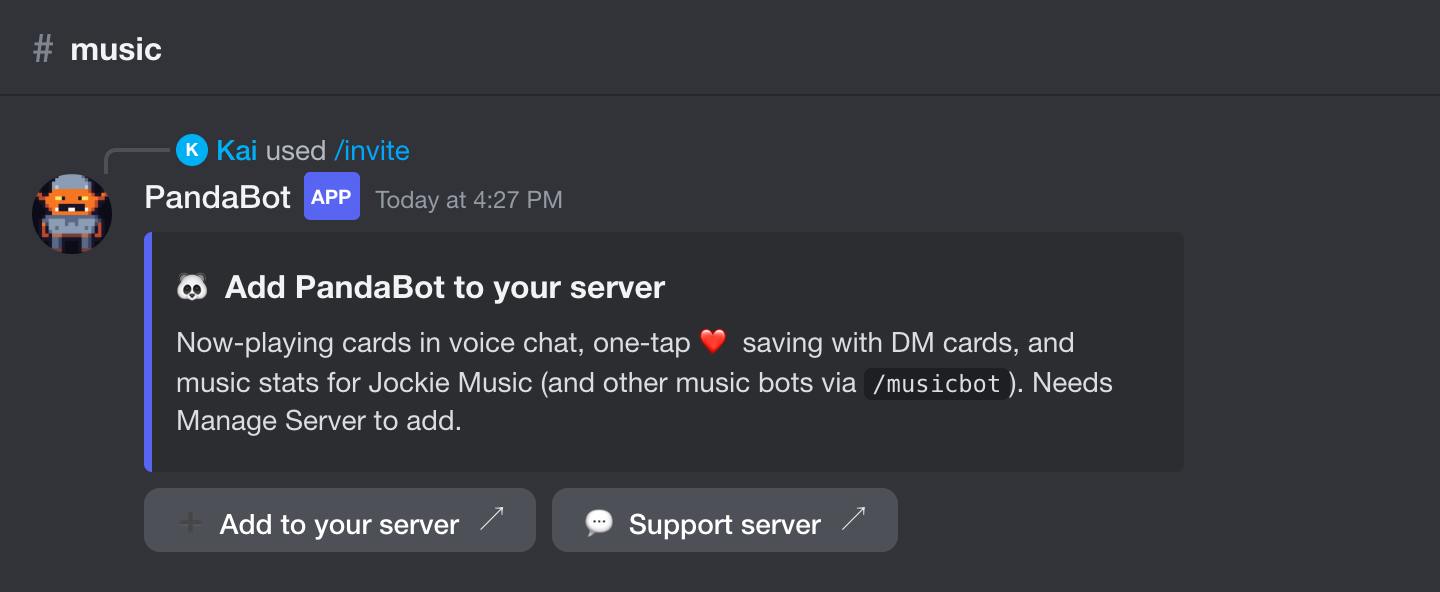
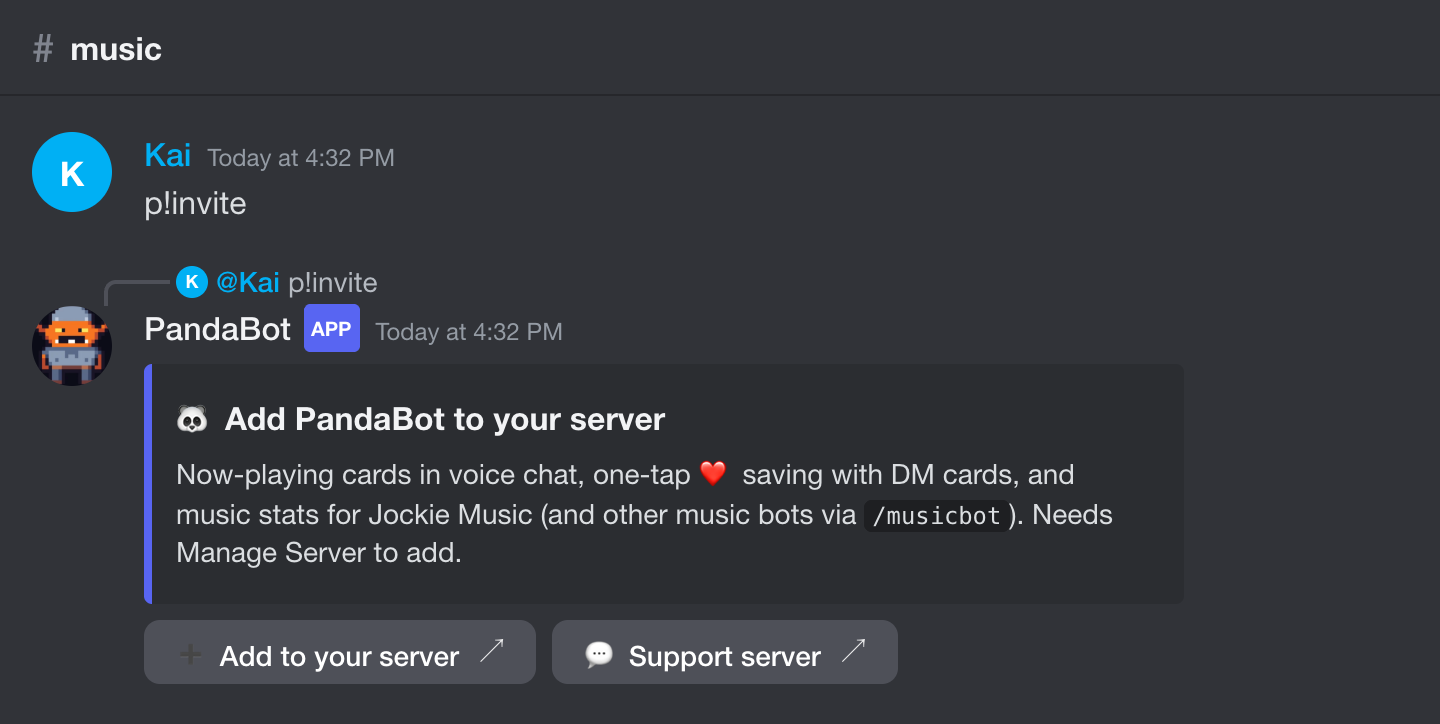
Lead with the p! text commands in screenshots and docs
Most people use p! and !like, so the screenshots now show the typed commands
where one exists, and the gallery, README and captions name the p! form first.

diff --git a/site/commands.html b/site/commands.html
@@ -11,8 +11,9 @@
 <main class="wide">
   <p><a href="index.html">← PandaBot</a></p>
   <h1>Commands</h1>
-  <p class="lede">What every PandaBot command looks like in Discord. Text commands start with <code>p!</code>, and
-  every one of them is also a slash command. <code>p!help</code> lists them all in Discord.</p>
+  <p class="lede">What every PandaBot command looks like in Discord. Most people type the <code>p!</code> commands
+  (and <code>!like</code> to save); each one also works as a slash command, and a few settings are slash-only.
+  <code>p!help</code> lists them all in Discord.</p>
   <!-- Generated by tools/screenshots.py. Edit the descriptions there, then re-run it. -->
   <h2>Saving songs</h2>
   <div class="shots">
@@ -37,7 +38,7 @@
            alt="PandaBot in Discord: Your saved songs, in your DMs">
     </figure>
     <figure id="save">
-      <figcaption><h3>/save</h3><p>Save the song that's playing without leaving the chat.</p></figcaption>
+      <figcaption><h3>/save</h3><p>The slash-command version of <code>!like</code>: saves the song that's playing.</p></figcaption>
       <img src="img/commands/save.png" width="720" height="182" loading="lazy"
            alt="PandaBot in Discord: /save">
     </figure>
@@ -47,12 +48,12 @@
            alt="PandaBot in Discord: Apps → Save song">
     </figure>
     <figure id="likes">
-      <figcaption><h3>/likes</h3><p>Page through your saved songs (or someone else's), and save from their list straight into yours.</p></figcaption>
-      <img src="img/commands/likes.png" width="720" height="531" loading="lazy"
-           alt="PandaBot in Discord: /likes">
+      <figcaption><h3>p!saved  ·  /likes</h3><p>Page through your saved songs (or someone else's: <code>p!saved @name</code>), and save from their list straight into yours.</p></figcaption>
+      <img src="img/commands/likes.png" width="720" height="569" loading="lazy"
+           alt="PandaBot in Discord: p!saved  ·  /likes">
     </figure>
     <figure id="unlike">
-      <figcaption><h3>/unlike</h3><p>Remove a song by its number in <code>/likes</code>. Its DM card disappears too.</p></figcaption>
+      <figcaption><h3>/unlike</h3><p>Remove a song by its number in <code>p!saved</code>. Its DM card disappears too.</p></figcaption>
       <img src="img/commands/unlike.png" width="720" height="182" loading="lazy"
            alt="PandaBot in Discord: /unlike">
     </figure>
@@ -70,14 +71,14 @@
   <h2>Stats</h2>
   <div class="shots">
     <figure id="stats">
-      <figcaption><h3>/stats  ·  p!stats</h3><p>Someone's music profile: requests, top artists, how many saves, and how often other people save the songs they pick.</p></figcaption>
-      <img src="img/commands/stats.png" width="720" height="376" loading="lazy"
-           alt="PandaBot in Discord: /stats  ·  p!stats">
+      <figcaption><h3>p!stats  ·  /stats</h3><p>Someone's music profile: requests, top artists, how many saves, and how often other people save the songs they pick. Add <code>@name</code> or a period like <code>7d</code>.</p></figcaption>
+      <img src="img/commands/stats.png" width="720" height="442" loading="lazy"
+           alt="PandaBot in Discord: p!stats  ·  /stats">
     </figure>
     <figure id="played">
-      <figcaption><h3>/played  ·  p!played</h3><p>Everything someone requested in a time period, with paging and a menu to save any of it.</p></figcaption>
-      <img src="img/commands/played.png" width="720" height="503" loading="lazy"
-           alt="PandaBot in Discord: /played  ·  p!played">
+      <figcaption><h3>p!played  ·  /played</h3><p>Everything someone requested in a time period, with paging and a menu to save any of it.</p></figcaption>
+      <img src="img/commands/played.png" width="720" height="569" loading="lazy"
+           alt="PandaBot in Discord: p!played  ·  /played">
     </figure>
     <figure id="name-shortcut">
       <figcaption><h3>p!&lt;name&gt;</h3><p>Type someone's name as the command, like <code>p!juniper 30d</code>, to see what they played.</p></figcaption>
@@ -85,34 +86,34 @@
            alt="PandaBot in Discord: p!&lt;name&gt;">
     </figure>
     <figure id="heard">
-      <figcaption><h3>/heard</h3><p>"What was that song?" Everything that played while you were in voice.</p></figcaption>
-      <img src="img/commands/heard.png" width="720" height="580" loading="lazy"
-           alt="PandaBot in Discord: /heard">
+      <figcaption><h3>p!heard  ·  /heard</h3><p>"What was that song?" Everything that played while you were in voice.</p></figcaption>
+      <img src="img/commands/heard.png" width="720" height="618" loading="lazy"
+           alt="PandaBot in Discord: p!heard  ·  /heard">
     </figure>
     <figure id="history">
-      <figcaption><h3>/history</h3><p>Everything played in the server, newest first, with who asked for it.</p></figcaption>
-      <img src="img/commands/history.png" width="720" height="580" loading="lazy"
-           alt="PandaBot in Discord: /history">
+      <figcaption><h3>p!history  ·  /history</h3><p>Everything played in the server, newest first, with who asked for it.</p></figcaption>
+      <img src="img/commands/history.png" width="720" height="618" loading="lazy"
+           alt="PandaBot in Discord: p!history  ·  /history">
     </figure>
     <figure id="top">
-      <figcaption><h3>/top  ·  p!top</h3><p>Server charts: most played songs, top artists, top requesters and the most-saved songs.</p></figcaption>
-      <img src="img/commands/top.png" width="720" height="572" loading="lazy"
-           alt="PandaBot in Discord: /top  ·  p!top">
+      <figcaption><h3>p!top  ·  /top</h3><p>Server charts: most played songs, top artists, top requesters and the most-saved songs.</p></figcaption>
+      <img src="img/commands/top.png" width="720" height="638" loading="lazy"
+           alt="PandaBot in Discord: p!top  ·  /top">
     </figure>
     <figure id="dj">
-      <figcaption><h3>/dj  ·  p!dj</h3><p>Whose requests other people save the most.</p></figcaption>
-      <img src="img/commands/dj.png" width="720" height="324" loading="lazy"
-           alt="PandaBot in Discord: /dj  ·  p!dj">
+      <figcaption><h3>p!dj  ·  /dj</h3><p>Whose requests other people save the most.</p></figcaption>
+      <img src="img/commands/dj.png" width="720" height="390" loading="lazy"
+           alt="PandaBot in Discord: p!dj  ·  /dj">
     </figure>
     <figure id="match">
-      <figcaption><h3>/match  ·  p!match</h3><p>How well two people's taste lines up, and the artists and songs you share.</p></figcaption>
-      <img src="img/commands/match.png" width="720" height="378" loading="lazy"
-           alt="PandaBot in Discord: /match  ·  p!match">
+      <figcaption><h3>p!match  ·  /match</h3><p>How well two people's taste lines up, and the artists and songs you share. <code>p!match @a @b</code> compares two other people.</p></figcaption>
+      <img src="img/commands/match.png" width="720" height="444" loading="lazy"
+           alt="PandaBot in Discord: p!match  ·  /match">
     </figure>
     <figure id="throwback">
-      <figcaption><h3>/throwback</h3><p>A random song from the server's history, with a Save button.</p></figcaption>
-      <img src="img/commands/throwback.png" width="720" height="358" loading="lazy"
-           alt="PandaBot in Discord: /throwback">
+      <figcaption><h3>p!throwback  ·  /throwback</h3><p>A random song from the server's history, with a Save button.</p></figcaption>
+      <img src="img/commands/throwback.png" width="720" height="424" loading="lazy"
+           alt="PandaBot in Discord: p!throwback  ·  /throwback">
     </figure>
     <figure id="nowplaying">
       <figcaption><h3>/nowplaying</h3><p>Show the song that's playing in your voice channel, with a Save button.</p></figcaption>
@@ -148,9 +149,9 @@
            alt="PandaBot in Discord: /setupcheck">
     </figure>
     <figure id="backfill">
-      <figcaption><h3>/backfill  ·  p!backfill</h3><p>Reads back through old messages so the server's past songs show up in stats from day one.</p></figcaption>
-      <img src="img/commands/backfill.png" width="720" height="249" loading="lazy"
-           alt="PandaBot in Discord: /backfill  ·  p!backfill">
+      <figcaption><h3>p!backfill  ·  /backfill</h3><p>Reads back through old messages so the server's past songs show up in stats from day one.</p></figcaption>
+      <img src="img/commands/backfill.png" width="720" height="220" loading="lazy"
+           alt="PandaBot in Discord: p!backfill  ·  /backfill">
     </figure>
   </div>
   <h2>Everything else</h2>
@@ -161,14 +162,14 @@
            alt="PandaBot in Discord: p!help">
     </figure>
     <figure id="invite">
-      <figcaption><h3>/invite</h3><p>A link to add PandaBot to another server.</p></figcaption>
-      <img src="img/commands/invite.png" width="720" height="296" loading="lazy"
-           alt="PandaBot in Discord: /invite">
+      <figcaption><h3>p!invite  ·  /invite</h3><p>A link to add PandaBot to another server.</p></figcaption>
+      <img src="img/commands/invite.png" width="720" height="362" loading="lazy"
+           alt="PandaBot in Discord: p!invite  ·  /invite">
     </figure>
     <figure id="support">
-      <figcaption><h3>/support</h3><p>PandaBot is free. If you'd like to help with the hosting bill, there's a tip jar.</p></figcaption>
-      <img src="img/commands/support.png" width="720" height="315" loading="lazy"
-           alt="PandaBot in Discord: /support">
+      <figcaption><h3>p!support  ·  /support</h3><p>PandaBot is free. If you'd like to help with the hosting bill, there's a tip jar.</p></figcaption>
+      <img src="img/commands/support.png" width="720" height="381" loading="lazy"
+           alt="PandaBot in Discord: p!support  ·  /support">
     </figure>
     <figure id="forgetme">
       <figcaption><h3>/forgetme</h3><p>Deletes everything PandaBot stores about you, in every server, after you confirm.</p></figcaption>

diff --git a/tools/screenshots.py b/tools/screenshots.py
@@ -197,9 +197,13 @@ def interaction(user: Person, channel: Channel, sink: list, data: dict | None = 
 
 def message(author: Person, channel: Channel, content: str = "", embeds=(), sink: list | None = None, mentions=()):
     async def reply(content=None, **kw):
+        entry = {"content": content, **kw}
         if sink is not None:
-            sink.append({"content": content, **kw})
-        return SimpleNamespace(id=next(IDS), edit=AsyncMock())
+            sink.append(entry)
+
+        async def edit(**changes):
+            entry.update(changes, edited=True)
+        return SimpleNamespace(id=next(IDS), edit=edit)
 
     return SimpleNamespace(id=next(IDS), guild=GUILD, channel=channel, author=author, content=content,
                            embeds=list(embeds), components=[], interaction_metadata=None, reference=None,
@@ -307,7 +311,7 @@ async def build_scenes() -> list[Scene]:
         "<b>Remove from list</b> takes it back out.", "@ PandaBot", [from_reply(PANDA.dms[-1])])
 
     add("save", "Saving songs", "/save",
-        "Save the song that's playing without leaving the chat.", "# music",
+        "The slash-command version of <code>!like</code>: saves the song that's playing.", "# music",
         [await slash(ROSA, "save")])
 
     sink = []
@@ -321,12 +325,12 @@ async def build_scenes() -> list[Scene]:
         "Right-click any music-bot message, even an old one, and pick <b>Apps → Save song</b>.", "# music",
         [jockie, from_reply(sink[0], used="Save song", used_by=MOSS)], overlay=menu)
 
-    add("likes", "Saving songs", "/likes",
-        "Page through your saved songs (or someone else's), and save from their list straight into yours.",
-        "# music", [await slash(PANDA, "likes")])
+    add("likes", "Saving songs", "p!saved  ·  /likes",
+        "Page through your saved songs (or someone else's: <code>p!saved @name</code>), and save from their "
+        "list straight into yours.", "# music", await typed(PANDA, "p!saved"))
 
     add("unlike", "Saving songs", "/unlike",
-        "Remove a song by its number in <code>/likes</code>. Its DM card disappears too.", "# music",
+        "Remove a song by its number in <code>p!saved</code>. Its DM card disappears too.", "# music",
         [await slash(PANDA, "unlike", number=3)])
     add("export", "Saving songs", "/export",
         "Download your saved songs as a spreadsheet (CSV) with Spotify and YouTube links.", "# music",
@@ -335,31 +339,33 @@ async def build_scenes() -> list[Scene]:
         "Turn the DM cards on or off for yourself.", "# music", [await slash(PANDA, "dms", enabled=True)])
 
     # Stats
-    add("stats", "Stats", "/stats  ·  p!stats",
+    add("stats", "Stats", "p!stats  ·  /stats",
         "Someone's music profile: requests, top artists, how many saves, and how often other people "
-        "save the songs they pick.", "# music", [await slash(PANDA, "stats")])
-    add("played", "Stats", "/played  ·  p!played",
+        "save the songs they pick. Add <code>@name</code> or a period like <code>7d</code>.", "# music",
+        await typed(PANDA, "p!stats"))
+    add("played", "Stats", "p!played  ·  /played",
         "Everything someone requested in a time period, with paging and a menu to save any of it.",
-        "# music", [await slash(PANDA, "played", member=JUNI, period=choice("30d"))])
+        "# music", await typed(PANDA, f"p!played <@{JUNI.id}> 30d", mentions=[JUNI]))
     add("name-shortcut", "Stats", "p!<name>",
         "Type someone's name as the command, like <code>p!juniper 30d</code>, to see what they played.",
         "# music", await typed(KAI, "p!juniper 30d"))
-    add("heard", "Stats", "/heard",
+    add("heard", "Stats", "p!heard  ·  /heard",
         "\"What was that song?\" Everything that played while you were in voice.", "# music",
-        [await slash(PANDA, "heard")])
-    add("history", "Stats", "/history",
+        await typed(PANDA, "p!heard"))
+    add("history", "Stats", "p!history  ·  /history",
         "Everything played in the server, newest first, with who asked for it.", "# music",
-        [await slash(PANDA, "history")])
-    add("top", "Stats", "/top  ·  p!top",
+        await typed(PANDA, "p!history"))
+    add("top", "Stats", "p!top  ·  /top",
         "Server charts: most played songs, top artists, top requesters and the most-saved songs.", "# music",
-        [await slash(PANDA, "top", period=choice("30d"))])
-    add("dj", "Stats", "/dj  ·  p!dj",
-        "Whose requests other people save the most.", "# music", [await slash(PANDA, "dj")])
-    add("match", "Stats", "/match  ·  p!match",
-        "How well two people's taste lines up, and the artists and songs you share.", "# music",
-        [await slash(PANDA, "match", member=JUNI)])
-    add("throwback", "Stats", "/throwback",
-        "A random song from the server's history, with a Save button.", "# music", [await slash(KAI, "throwback")])
+        await typed(PANDA, "p!top 30d"))
+    add("dj", "Stats", "p!dj  ·  /dj",
+        "Whose requests other people save the most.", "# music", await typed(PANDA, "p!dj"))
+    add("match", "Stats", "p!match  ·  /match",
+        "How well two people's taste lines up, and the artists and songs you share. "
+        "<code>p!match @a @b</code> compares two other people.", "# music",
+        await typed(PANDA, f"p!match <@{JUNI.id}>", mentions=[JUNI]))
+    add("throwback", "Stats", "p!throwback  ·  /throwback",
+        "A random song from the server's history, with a Save button.", "# music", await typed(KAI, "p!throwback"))
     add("nowplaying", "Stats", "/nowplaying",
         "Show the song that's playing in your voice channel, with a Save button.", "🔊 Chill VC",
         [await slash(JUNI, "nowplaying", channel=CHILL)])
@@ -381,21 +387,19 @@ async def build_scenes() -> list[Scene]:
         "Finds channels PandaBot can't see or post in, since missing permissions otherwise fail silently.",
         "# music", [await slash(PANDA, "setupcheck")])
     bot.backfill = AsyncMock(return_value=(6, 412))
-    started = await slash(PANDA, "backfill", messages=10000)
-    await bot.wait_for_background()
-    add("backfill", "Server setup", "/backfill  ·  p!backfill",
+    add("backfill", "Server setup", "p!backfill  ·  /backfill",
         "Reads back through old messages so the server's past songs show up in stats from day one.",
-        "# music", [started, from_reply(MUSIC.sent[-1])])
+        "# music", await typed(PANDA, "p!backfill 10000"))
 
     # Everything else
     add("help", "Everything else", "p!help",
         "Every text command on one card. They all exist as slash commands too.", "# music",
         await typed(ROSA, "p!help"))
-    add("invite", "Everything else", "/invite",
-        "A link to add PandaBot to another server.", "# music", [await slash(KAI, "invite")])
-    add("support", "Everything else", "/support",
+    add("invite", "Everything else", "p!invite  ·  /invite",
+        "A link to add PandaBot to another server.", "# music", await typed(KAI, "p!invite"))
+    add("support", "Everything else", "p!support  ·  /support",
         "PandaBot is free. If you'd like to help with the hosting bill, there's a tip jar.", "# music",
-        [await slash(KAI, "support")])
+        await typed(KAI, "p!support"))
     add("forgetme", "Everything else", "/forgetme",
         "Deletes everything PandaBot stores about you, in every server, after you confirm.", "# music",
         [await slash(MOSS, "forgetme")])
@@ -545,7 +549,7 @@ def render_message(m: Msg) -> str:
         who_, text = m.reply_to
         ctx = (f'<div class="ctx"><span class="spine"></span>{avatar(who_, True)}'
                f'<span class="ctx-name" style="color:{who_.colour}">@{who_.display_name}</span>'
-               f' <span class="ctx-text">{html.escape(text)}</span></div>')
+               f' <span class="ctx-text">{md(text)}</span></div>')
     tag = '<span class="app">APP</span>' if m.author.bot else ""
     colour = "#f2f3f5" if m.author.bot else m.author.colour
     body = [f'<div class="head"><span class="name" style="color:{colour}">{m.author.display_name}</span>{tag}'
@@ -714,8 +718,9 @@ def write_gallery(scenes: list[Scene]) -> None:
 <main class="wide">
   <p><a href="index.html">← PandaBot</a></p>
   <h1>Commands</h1>
-  <p class="lede">What every PandaBot command looks like in Discord. Text commands start with <code>p!</code>, and
-  every one of them is also a slash command. <code>p!help</code> lists them all in Discord.</p>
+  <p class="lede">What every PandaBot command looks like in Discord. Most people type the <code>p!</code> commands
+  (and <code>!like</code> to save); each one also works as a slash command, and a few settings are slash-only.
+  <code>p!help</code> lists them all in Discord.</p>
   <!-- Generated by tools/screenshots.py. Edit the descriptions there, then re-run it. -->
 {chr(10).join(sections)}
 

diff --git a/README.md b/README.md
@@ -26,10 +26,10 @@ PandaBot never joins voice or plays music. It only reads what the music bot post
 ## Screenshots
 
 <table>
-<tr><td width="50%" valign="top"><img src="site/img/commands/heart.png" alt="Tap ❤ on the music bot's post to save the song"><br><sub>Tap ❤ on the music bot's post to save the song</sub></td><td width="50%" valign="top"><img src="site/img/commands/dm-card.png" alt="Every save lands in your DMs"><br><sub>Every save lands in your DMs</sub></td></tr>
-<tr><td width="50%" valign="top"><img src="site/img/commands/stats.png" alt="/stats: someone's music profile"><br><sub><code>/stats</code>: someone's music profile</sub></td><td width="50%" valign="top"><img src="site/img/commands/top.png" alt="/top: server charts"><br><sub><code>/top</code>: server charts</sub></td></tr>
-<tr><td width="50%" valign="top"><img src="site/img/commands/likes.png" alt="/likes: your saved songs, with paging"><br><sub><code>/likes</code>: your saved songs, with paging</sub></td><td width="50%" valign="top"><img src="site/img/commands/match.png" alt="/match: taste match with a friend"><br><sub><code>/match</code>: taste match with a friend</sub></td></tr>
-<tr><td width="50%" valign="top"><img src="site/img/commands/dj.png" alt="/dj: whose picks get saved most"><br><sub><code>/dj</code>: whose picks get saved most</sub></td><td width="50%" valign="top"><img src="site/img/commands/save-song-menu.png" alt="Right-click any old song → Apps → Save song"><br><sub>Right-click any old song → Apps → Save song</sub></td></tr>
+<tr><td width="50%" valign="top"><img src="site/img/commands/heart.png" alt="Tap ❤ on the music bot's post (or type !like) to save the song"><br><sub>Tap ❤ on the music bot's post (or type <code>!like</code>) to save the song</sub></td><td width="50%" valign="top"><img src="site/img/commands/dm-card.png" alt="Every save lands in your DMs"><br><sub>Every save lands in your DMs</sub></td></tr>
+<tr><td width="50%" valign="top"><img src="site/img/commands/stats.png" alt="p!stats: someone's music profile"><br><sub><code>p!stats</code>: someone's music profile</sub></td><td width="50%" valign="top"><img src="site/img/commands/top.png" alt="p!top: server charts"><br><sub><code>p!top</code>: server charts</sub></td></tr>
+<tr><td width="50%" valign="top"><img src="site/img/commands/likes.png" alt="p!saved: your saved songs, with paging"><br><sub><code>p!saved</code>: your saved songs, with paging</sub></td><td width="50%" valign="top"><img src="site/img/commands/match.png" alt="p!match @friend: taste match"><br><sub><code>p!match @friend</code>: taste match</sub></td></tr>
+<tr><td width="50%" valign="top"><img src="site/img/commands/dj.png" alt="p!dj: whose picks get saved most"><br><sub><code>p!dj</code>: whose picks get saved most</sub></td><td width="50%" valign="top"><img src="site/img/commands/save-song-menu.png" alt="Right-click any old song → Apps → Save song"><br><sub>Right-click any old song → Apps → Save song</sub></td></tr>
 </table>
 
 Every command, with a screenshot: **[pandabot-site.onrender.com/commands.html](https://pandabot-site.onrender.com/commands.html)**. They're generated from the real reply code by `tools/screenshots.py`, using a made-up demo server.
@@ -93,7 +93,8 @@ Every song list has ◀ ▶ paging and a **❤ Save a song from this page** m
 | `p!match @user [@user]` | Taste match based on artists requested, heard and saved |
 | `p!throwback` | A random song from the past, with a Save button |
 | `p!backfill [messages]` | *(Manage Server)* Read old messages to log Jockie's past plays (default: last 2,000 per channel; e.g. `p!backfill 10000`) |
-| `p!support` | Ko-fi link to help cover hosting (also `/support`) |
+| `p!support` | Ko-fi link to help cover hosting |
+| `p!invite` | Link to add PandaBot to another server |
 | `p!help` | This list |
 
 **Periods:** `24h`, `7d`, `2w`, `3m` (months), `1y`, `today`, `week`, `month`, `all`.
@@ -108,10 +109,10 @@ straight away (empty queue) have no length.
 
 | Command | What it does |
 |---|---|
-| `/save` | Save the current song |
+| `!like` or `/save` | Save the current song (`!like` works in any channel) |
 | `/nowplaying` | Show the current song with a Save button |
-| `/likes [member] [public]` | Saved songs, paged |
-| `/unlike <number>` | Remove a song by its number in `/likes` (and its DM card) |
+| `p!saved [@user]` or `/likes [member] [public]` | Saved songs, paged |
+| `/unlike <number>` | Remove a song by its number in `p!saved` (and its DM card) |
 | `/export` | Download your saved songs as a CSV |
 | `/dms <on/off>` | Turn the DM card on save on or off for yourself |
 | `/announce [mode] [channel]` | *(Manage Server)* `follow` Jockie's voice chat, a fixed `channel`, or `off` |
